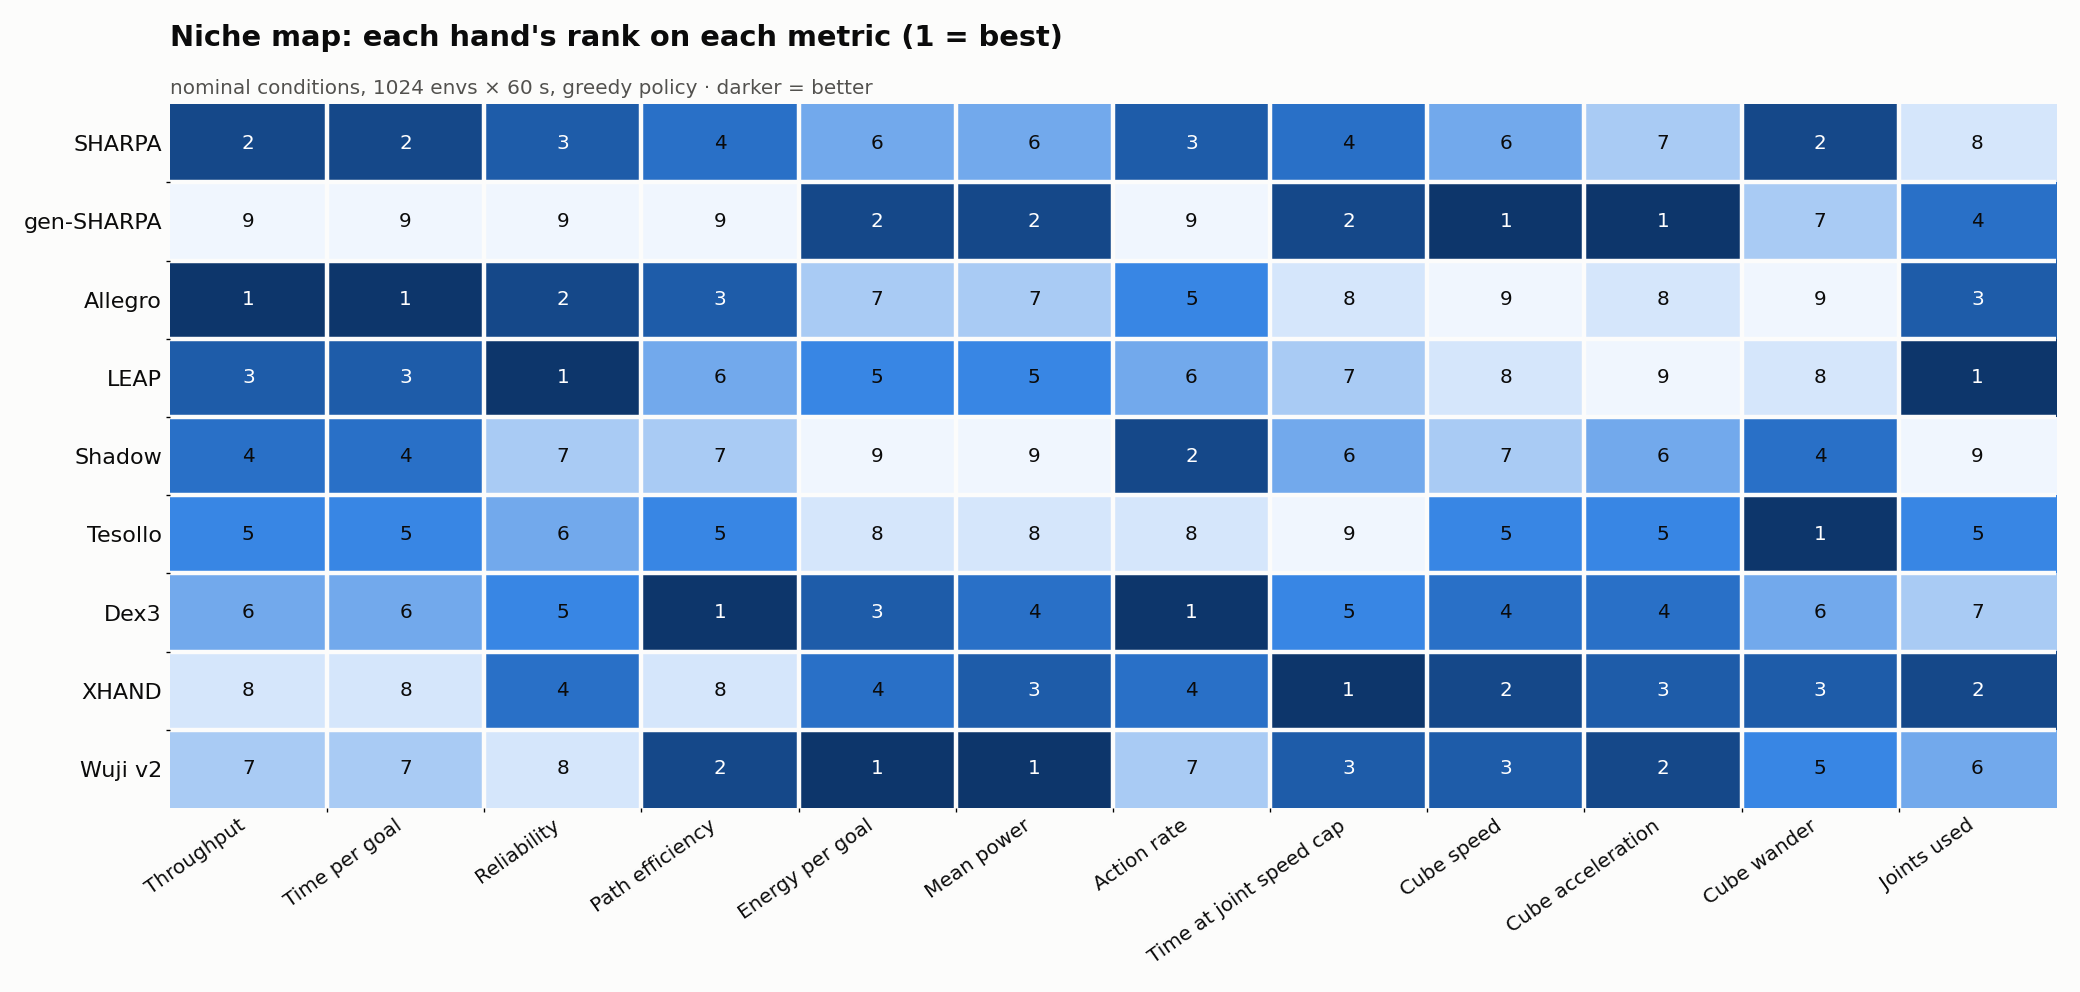
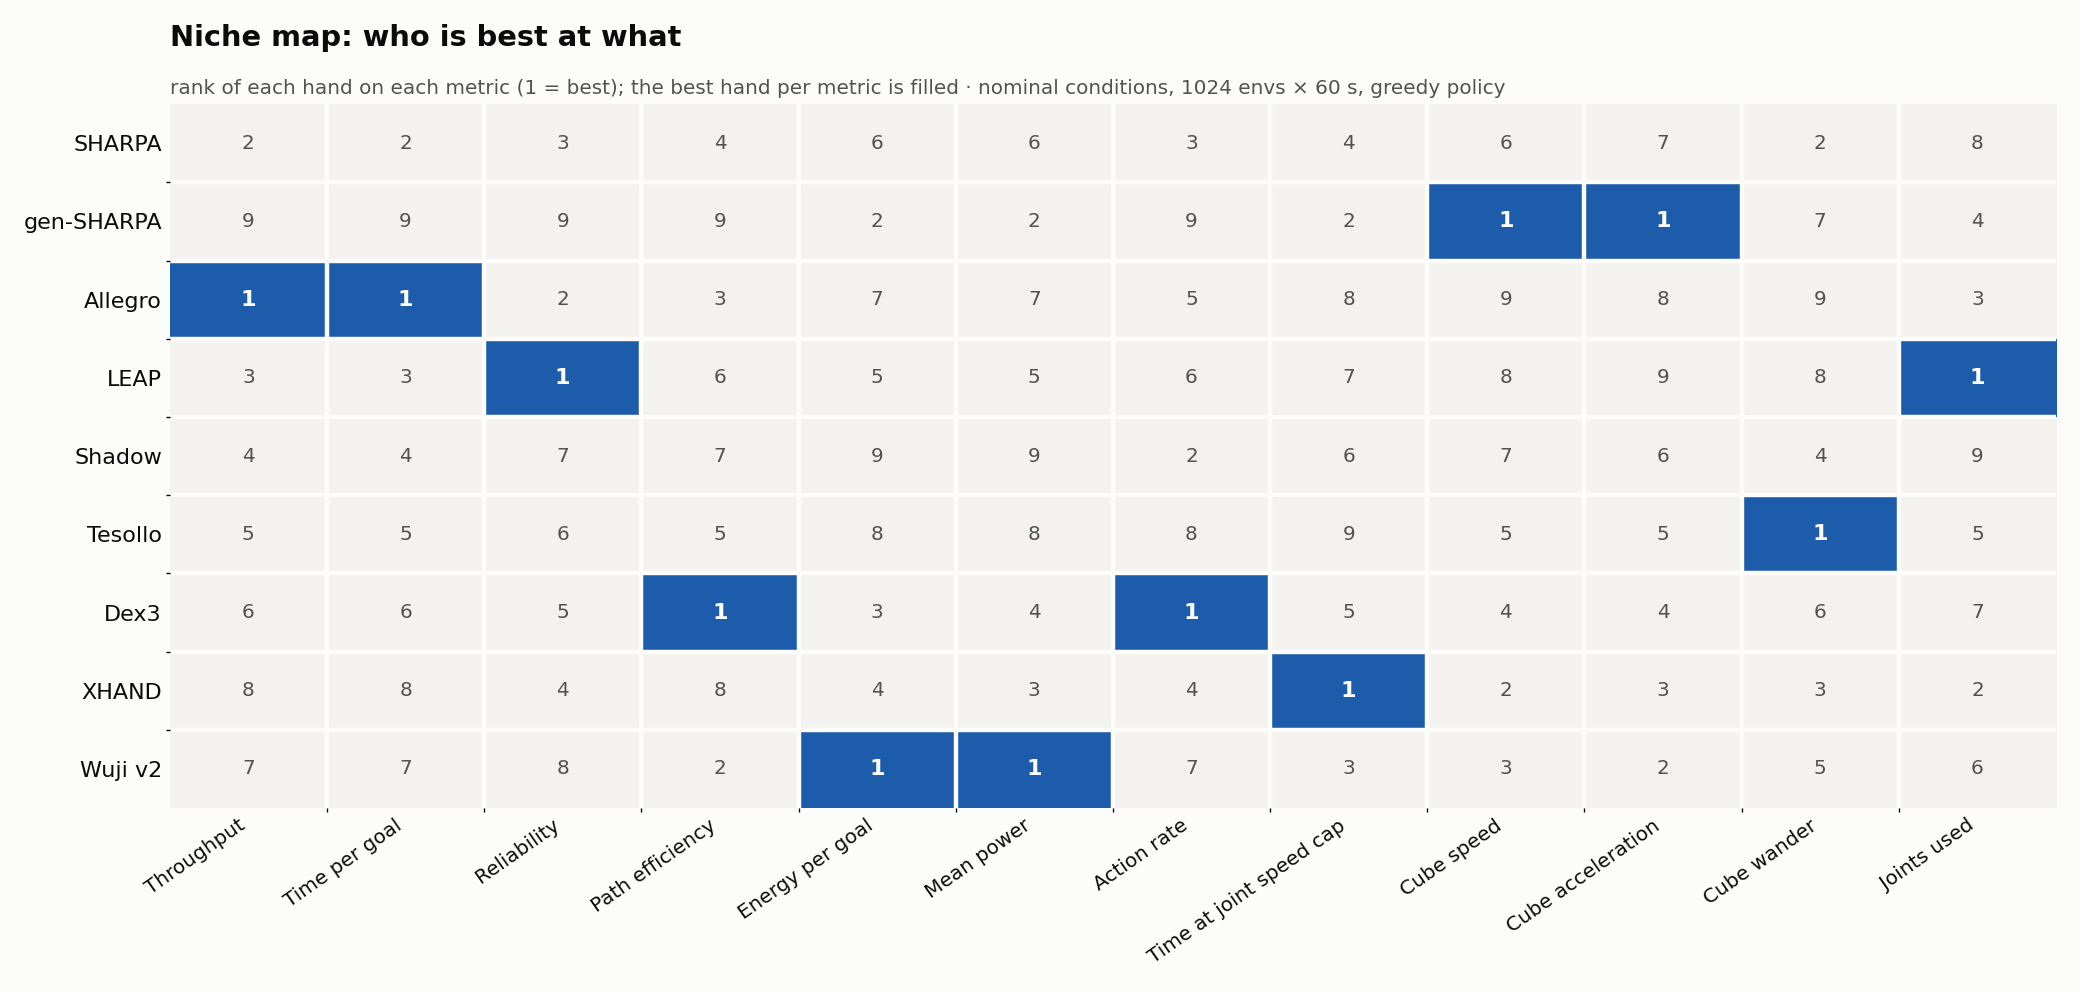
Embodiment niches: niche map highlights only the best hand per metric
Claude-Session: https://claude.ai/code/session_01VEjfLD7vkNCwPYPC2HsL71

diff --git a/experiments/01oct_embodiment_niches/analysis/plot_main.py b/experiments/01oct_embodiment_niches/analysis/plot_main.py
@@ -46,19 +46,25 @@ def niche_map(R, hands):
         order = np.argsort(-vals[:, j] if METRICS[m][2] else vals[:, j], kind="stable")
         ranks[order, j] = np.arange(1, len(hands) + 1)
     fig, ax = plt.subplots(figsize=(13, 6.2), facecolor=SURFACE)
-    ax.imshow(len(hands) + 1 - ranks, cmap=RAMP, vmin=1, vmax=len(hands), aspect="auto")
+    # Only the winner of each metric is filled; every other cell stays surface with its rank in muted ink.
+    best = (ranks == 1).astype(float)
+    ax.imshow(best, cmap=LinearSegmentedColormap.from_list("hl", ["#f3f2ef", BEST]), vmin=0, vmax=1,
+              aspect="auto")
     for i in range(len(hands)):
         for j in range(len(ms)):
-            _cell_text(ax, j, i, f"{int(ranks[i, j])}", ranks[i, j] <= 3)
+            win = ranks[i, j] == 1
+            ax.text(j, i, f"{int(ranks[i, j])}", ha="center", va="center", fontsize=10 if win else 9,
+                    color="#ffffff" if win else INK2, fontweight="semibold" if win else "normal")
     ax.set_xticks(range(len(ms)), [METRICS[m][0] for m in ms], rotation=35, ha="right", fontsize=9, color=INK)
     ax.set_yticks(range(len(hands)), [NAMES[h] for h in hands], fontsize=10, color=INK)
     ax.set_xticks([x - 0.5 for x in range(1, len(ms))], minor=True)
     ax.set_yticks([y - 0.5 for y in range(1, len(hands))], minor=True)
     ax.grid(which="minor", color=SURFACE, linewidth=2)
     _style(ax)
-    ax.set_title("Niche map: each hand's rank on each metric (1 = best)", loc="left", fontsize=13,
+    ax.set_title("Niche map: who is best at what", loc="left", fontsize=13,
                  color=INK, fontweight="semibold", pad=26)
-    ax.text(0, 1.015, "nominal conditions, 1024 envs × 60 s, greedy policy · darker = better",
+    ax.text(0, 1.015, "rank of each hand on each metric (1 = best); the best hand per metric is filled · "
+            "nominal conditions, 1024 envs × 60 s, greedy policy",
             transform=ax.transAxes, fontsize=9, color=INK2)
     fig.tight_layout()
     fig.savefig(OUT / "niche_map.png", dpi=160, facecolor=SURFACE)
